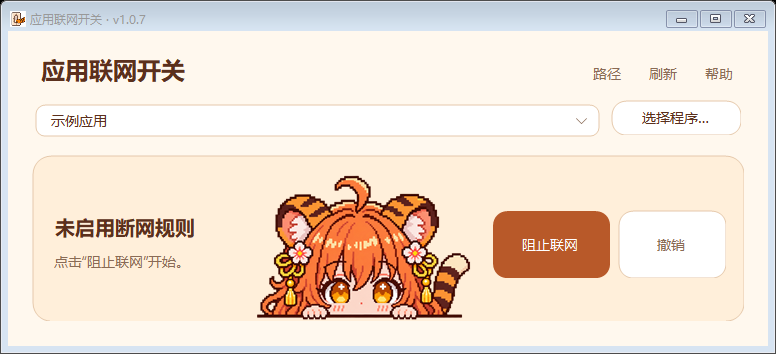
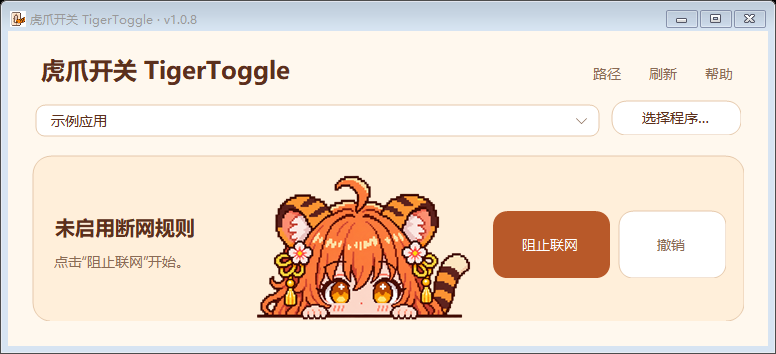
Brand the Windows executable as TigerToggle v1.0.8

Changed region(s): [[0.0309, 0.1554, 0.3711, 0.2486], [0.0309, 0.0311, 0.2474, 0.0932]]

diff --git a/source/Program.cs b/source/Program.cs
@@ -7,15 +7,17 @@ using System.Text;
 using System.Threading;
 using System.Windows.Forms;
 
-[assembly: System.Reflection.AssemblyTitle("应用联网开关")]
-[assembly: System.Reflection.AssemblyProduct("App Network Switch")]
-[assembly: System.Reflection.AssemblyVersion("1.0.7.0")]
-[assembly: System.Reflection.AssemblyFileVersion("1.0.7.0")]
+[assembly: System.Reflection.AssemblyTitle(AppNetworkSwitch.Program.DisplayName)]
+[assembly: System.Reflection.AssemblyProduct(AppNetworkSwitch.Program.DisplayName)]
+[assembly: System.Reflection.AssemblyVersion("1.0.8.0")]
+[assembly: System.Reflection.AssemblyFileVersion("1.0.8.0")]
 
 namespace AppNetworkSwitch
 {
     internal static class Program
     {
+        internal const string DisplayName = "虎爪开关 TigerToggle";
+
         [STAThread]
         private static int Main(string[] args)
         {
@@ -57,7 +59,7 @@ namespace AppNetworkSwitch
                 if (args.Length > 0 && (args[0] == "--preview" || args[0] == "--diagnose"))
                     Console.Error.WriteLine(error.ToString());
                 else
-                    MessageBox.Show(error.Message, "应用联网开关", MessageBoxButtons.OK, MessageBoxIcon.Warning);
+                    MessageBox.Show(error.Message, DisplayName, MessageBoxButtons.OK, MessageBoxIcon.Warning);
                 return 1;
             }
         }

diff --git a/source/MainForm.cs b/source/MainForm.cs
@@ -125,7 +125,7 @@ namespace AppNetworkSwitch
         public MainForm(bool preview)
         {
             previewMode = preview;
-            Text = "应用联网开关 · v1.0.7";
+            Text = Program.DisplayName + " · v" + typeof(Program).Assembly.GetName().Version.ToString(3);
             Icon = Icon.ExtractAssociatedIcon(typeof(MainForm).Assembly.Location);
             ClientSize = new Size(760, 314);
             MinimumSize = new Size(720, 354);
@@ -157,7 +157,7 @@ namespace AppNetworkSwitch
             header.ColumnStyles.Add(new ColumnStyle(SizeType.Percent, 100));
             foreach (int width in new[] { 56, 56, 56 }) header.ColumnStyles.Add(new ColumnStyle(SizeType.Absolute, width));
             header.Controls.Add(new Label {
-                Text = "应用联网开关", AutoSize = true,
+                Text = Program.DisplayName, AutoSize = true,
                 Font = new Font(Font.FontFamily, 18F, FontStyle.Bold), Margin = new Padding(0)
             }, 0, 0);
             var pathLink = new LinkLabel { Text = "路径", Dock = DockStyle.Fill, TextAlign = ContentAlignment.MiddleRight };

diff --git a/README.md b/README.md
@@ -6,7 +6,7 @@
 
 ## 下载与使用
 
-在仓库的 [Releases（发布版本）](https://github.com/StarBulb0502/TigerToggle/releases/tag/v1.0.7)中下载 `v1.0.7` 的 `AppNetworkSwitch-1.0.7-Windows.zip`。解压后双击 `AppNetworkSwitch.exe` 即可打开。运行环境为 Windows 10 / 11 和 .NET Framework 4.8。
+在仓库的 [Releases（发布版本）](https://github.com/StarBulb0502/TigerToggle/releases/latest)中下载 `TigerToggle-1.0.8-Windows.zip`。解压后双击 `虎爪开关TigerToggle.exe` 即可打开。运行环境为 Windows 10 / 11 和 .NET Framework 4.8。
 
 1. 从下拉框选一个应用，或用「选择程序」定位它的 `.exe` 文件。
 2. 点击「阻止联网」，阅读提示并完成 Windows 管理员授权。
@@ -22,6 +22,6 @@
 
 ## 从源码构建
 
-在 Windows 上运行 `source\build.cmd`。脚本会调用 .NET Framework 编译器，在仓库根目录生成 `AppNetworkSwitch.exe`。源码使用 Windows Forms 界面和 Windows 防火墙系统接口。
+在 Windows 上运行 `source\build.cmd`。脚本会调用 .NET Framework 编译器，在仓库根目录生成 `虎爪开关TigerToggle.exe`。源码使用 Windows Forms 界面和 Windows 防火墙系统接口。
 
 程序启动时在本机扫描应用安装记录与常见目录，并读取当前防火墙规则。使用过程中，应用路径和规则保存在使用者自己的电脑上。
